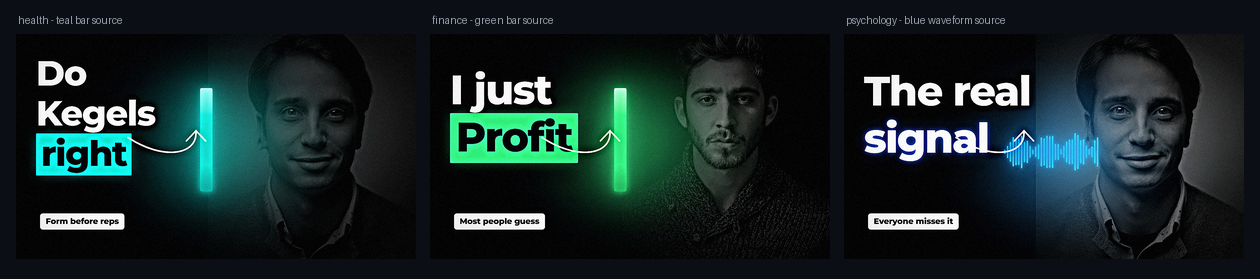
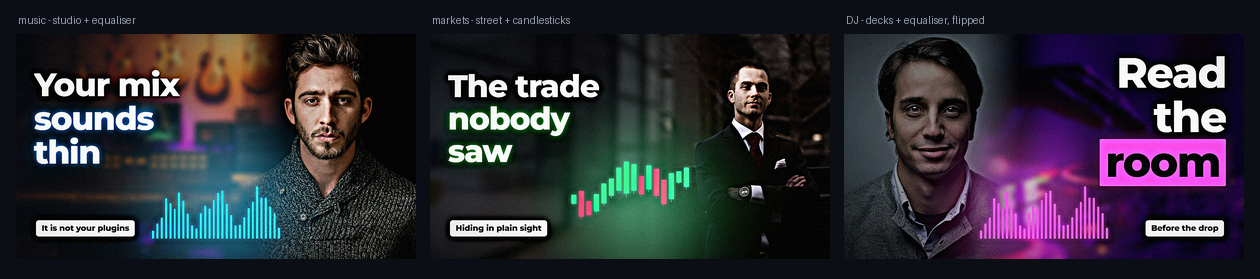
Replace the showcase: scene builds, not the austere ones
The README gallery still led with three insight.html builds - the empty version
of the premium look that was already identified as the problem. Rebuilt with
scene.html: music (studio + equaliser), markets (street + candlesticks) and DJ
(decks + equaliser), each with a real place behind the subject.

Dropped docs/style-premium-insight.png - the register D section now points at the
showcase instead of carrying a second, weaker gallery.

Fixed: VIZ=line stroked at 2.6px, a squiggle rather than a light source. Now 6px
with a double drop-shadow.

Added to glow-and-light.md, both from errors made while building this gallery:
the subject must belong to the scene - a sunlit outdoor portrait in a dark club
gives itself away through light direction and colour temperature - and the light
source needs enough visual weight to read as one.

diff --git a/skills/thumbnail-designer/assets/templates/scene.html b/skills/thumbnail-designer/assets/templates/scene.html
@@ -154,10 +154,10 @@
     for (var k = 0; k <= 22; k++) { y += (rnd() - 0.42) * 16; y = Math.max(8, Math.min(92, y));
       pts.push((k / 22 * 100).toFixed(1) + ',' + (100 - y).toFixed(1)); }
     viz.innerHTML =
-      '<svg width="420" height="100%" viewBox="0 0 100 100" preserveAspectRatio="none">' +
+      '<svg width="520" height="100%" viewBox="0 0 100 100" preserveAspectRatio="none">' +
       '<polyline points="' + pts.join(' ') + '" fill="none" stroke="' + "{{SRC}}" +
-      '" stroke-width="2.6" vector-effect="non-scaling-stroke" stroke-linejoin="round"/></svg>';
-    viz.style.filter = 'drop-shadow(0 0 18px ' + "{{SRC}}" + ')';
+      '" stroke-width="6" vector-effect="non-scaling-stroke" stroke-linejoin="round" stroke-linecap="round"/></svg>';
+    viz.style.filter = 'drop-shadow(0 0 14px ' + "{{SRC}}" + ') drop-shadow(0 0 40px ' + "{{SRC}}" + ')';
   }
 
   // bloom + spill keyed to the object

diff --git a/README.md b/README.md
@@ -19,9 +19,9 @@ batch-produces premium thumbnails — and proves the result before shipping it.*
 
 ![Showcase](docs/showcase.png)
 
-<sub>Premium Insight register: a light source inside the frame whose colour lands on the
-subject, the background and the type; everything else desaturated so the accent is the only
-colour in the picture. Real photographs, no generated imagery.</sub>
+<sub>A real place behind every subject, a light source with real structure — 30 equaliser bars,
+16 candlesticks with wicks — and its colour landing on the person and the room. Real
+photographs throughout, no generated imagery.</sub>
 
 ---
 
@@ -104,10 +104,8 @@ waveform, orb) whose colour lands on the subject, the background *and* the headl
 else desaturated to black and white so the accent is the only colour; refined mixed-case type
 with no stroke; one hand-drawn annotation. Doctrine in `references/glow-and-light.md`.
 
-![Premium insight examples](docs/style-premium-insight.png)
-
-<sub>Three light sources — bar, waveform, orb — three palettes, both directions. The glow is
-motivated: you can point at what is emitting it, and it lights the person.</sub>
+Built with `scene.html` — see the showcase at the top of this page. The glow is motivated:
+you can point at what is emitting it, and it lights the person and the room.
 
 **B — Cinematic Editorial.** Dark base, one restrained accent, depth of field, rim light, gradient
 type with a soft dark glow, 2–3% grain. For documentary, long-form, business and premium brands.

diff --git a/CHANGELOG.md b/CHANGELOG.md
@@ -236,3 +236,21 @@ Audit and packaging pass.
 - Every template referenced in the docs is present, and every present template is documented.
 - Every README image link resolves.
 - Distributable is 1.71 MB.
+
+## 1.7.2 - 2026-10-28
+
+### Changed
+- **Showcase rebuilt with `scene.html`.** The gallery still led with three `insight.html`
+  builds - the austere, empty version of the premium look. Replaced with music, markets and DJ
+  builds that have a real place behind the subject and a structured light source.
+- Dropped `docs/style-premium-insight.png`; the register D section now points at the showcase
+  rather than carrying a second, weaker gallery.
+
+### Fixed
+- `VIZ=line` stroked at 2.6px, which reads as a squiggle rather than a light source. Now 6px
+  with a double drop-shadow and a wider viewport.
+
+### Added
+- Two rules to `glow-and-light.md` section 7, both from errors made building the gallery: the
+  subject must belong to the scene (a sunlit portrait in a dark club gives itself away through
+  light direction and colour temperature), and the light source needs enough visual weight.

diff --git a/skills/thumbnail-designer/references/glow-and-light.md b/skills/thumbnail-designer/references/glow-and-light.md
@@ -120,6 +120,13 @@ a *meaningful thing* (a candlestick chart, an equaliser, a screen), never a feat
 - **Blend the subject with a mask**, feathering its own edge into the scene. An overlaid dark
   band is not a blend; it is a dark band.
 - If a large area carries nothing, the design is not finished.
+- **The subject has to belong to the scene.** A sunlit outdoor portrait dropped into a dark
+  club reads as fake instantly, however good the glow is - the light direction and colour
+  temperature give it away. Match them, or pick a different photo. `DIM` and `MONO` can pull a
+  bright studio portrait down into a dark room, but they cannot move the sun.
+- **Give the source enough weight.** A 2-3px plotted line is a squiggle at thumbnail scale,
+  not a light source. Stroke it at 6px+ with a double drop-shadow, or use candlesticks or
+  bars where structure does the work.
 
 Template: `scene.html`.
 
